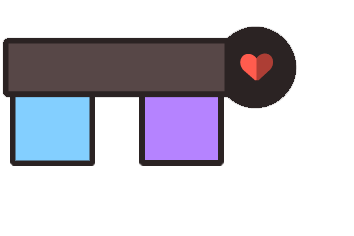
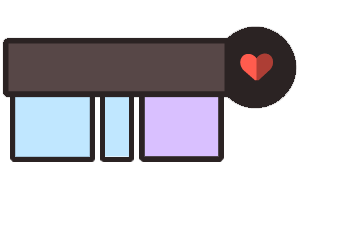
moved the bullets around

Changed region(s): [[0.0311, 0.3856, 0.6525, 0.7119]]

diff --git a/src/RenderSystem.cpp b/src/RenderSystem.cpp
@@ -138,26 +138,26 @@ void RenderHatHUD(SDL_Renderer* renderer, uint hatId, uint32 elapsed, ComponentB
 	(void) elapsed;
 	switch (hatId) {
         case HatTypes_Cowboy: {
-			Texture* texture = TextureCache_GetTexture("bullet");
+	                Texture* texture = TextureCache_GetTexture(Constants::BulletHud_);
 			texture->flip = SDL_FLIP_NONE;
 			int bulletIndex = 0;
 			for (; bulletIndex < cBag->bulletComponent->bulletValues[Constants::PlayerIndex_].availableBullets; bulletIndex++) {
-			    RenderSystem_Render_xywh(renderer, XRightRender_ + 137, YTopRender_ + (texture->h * bulletIndex) + 60, texture->w, texture->h, NULL, texture); 
+			  RenderSystem_Render_xywh(renderer, XRightRender_ + 147, YTopRender_ + ((texture->h + 8) * bulletIndex) + 48, texture->w, texture->h, NULL, texture); 
 			}
 			for (; bulletIndex < MaxBullets_; bulletIndex++) {
 				uint32 eid = cBag->bulletComponent->bulletValues[Constants::PlayerIndex_].bulletEids[MaxBullets_ - bulletIndex - 1];
 				if (cBag->aliveComponent->timeAlive[eid] > 0) {
 					SDL_Rect clip = { 0, 0, static_cast<int>(texture->w * ((float)cBag->aliveComponent->timeAlive[eid] / MaxBulletLife_)), texture->h };
-					RenderSystem_Render_xywh(renderer, XRightRender_ + 137, YTopRender_ + (texture->h * bulletIndex) + 60, texture->w, texture->h, &clip, texture); 
+					RenderSystem_Render_xywh(renderer, XRightRender_ + 147, YTopRender_ + ((texture->h+8) * bulletIndex) + 48, texture->w, texture->h, &clip, texture); 
 				}
 			}
 			break;
 		}
         case HatTypes_Chef: {
-            Texture* texture = TextureCache_GetTexture("knife");
+	    Texture* texture = TextureCache_GetTexture(Constants::KnifeHud_);
 			texture->flip = SDL_FLIP_NONE;
             for (int knifeIndex = 0; knifeIndex < cBag->bulletComponent->bulletValues[Constants::PlayerIndex_].availableBullets; knifeIndex++) {
-            	RenderSystem_Render_xywh(renderer, XRightRender_ + 141, YTopRender_ + texture->h * knifeIndex + 55, texture->w, texture->h, NULL, texture);
+            	RenderSystem_Render_xywh(renderer, XRightRender_ + 147, YTopRender_ + texture->h * knifeIndex + 55, texture->w, texture->h, NULL, texture);
 		}
 		break;
 	}

diff --git a/src/StateLoader.cpp b/src/StateLoader.cpp
@@ -352,6 +352,8 @@ bool LoadPlayStateAssets(Game* game, int chapter) {
 	std::string pShaderPath = "assets/chapter_" + std::to_string(chapter) + "/player-shader.png";
 	SDL_SetTextureBlendMode(TextureCache_CreateTexture(game->renderer, pShaderPath.c_str(), Constants::PShader_)->sdltexture, SDL_BLENDMODE_MOD);
 	TextureCache_CreateTexture(game->renderer, "assets/hud/health-bar.png", Constants::HealthBar_);
+	TextureCache_CreateTexture(game->renderer, "assets/hud/bullet-hud.png", Constants::BulletHud_);
+	TextureCache_CreateTexture(game->renderer, "assets/hud/knife-hud.png", Constants::KnifeHud_);
 	TextureCache_CreateTexture(game->renderer, "assets/hud/time-bar.png", Constants::TimeBar_);
 	TextureCache_CreateTexture(game->renderer, "assets/hud/coin-bar.png", Constants::CoinBar_);
 	SDL_SetTextureBlendMode(TextureCache_CreateTexture(game->renderer, "assets/hats/glamour-hat-glow.png", Constants::GlamourGlow_)->sdltexture, SDL_BLENDMODE_BLEND);

diff --git a/src/Constants.h b/src/Constants.h
@@ -80,4 +80,6 @@ namespace Constants {
 	const String128 CoinBar_			= 	"coin_bar";
 	const String128 GlamourGlow_		= 	"glamour_glow";
 	const String128 HatGlow_			= 	"hat_glow";
+	const String128 KnifeHud_			= 	"knife-hud";
+	const String128 BulletHud_			= 	"bullet-hud";
 }
